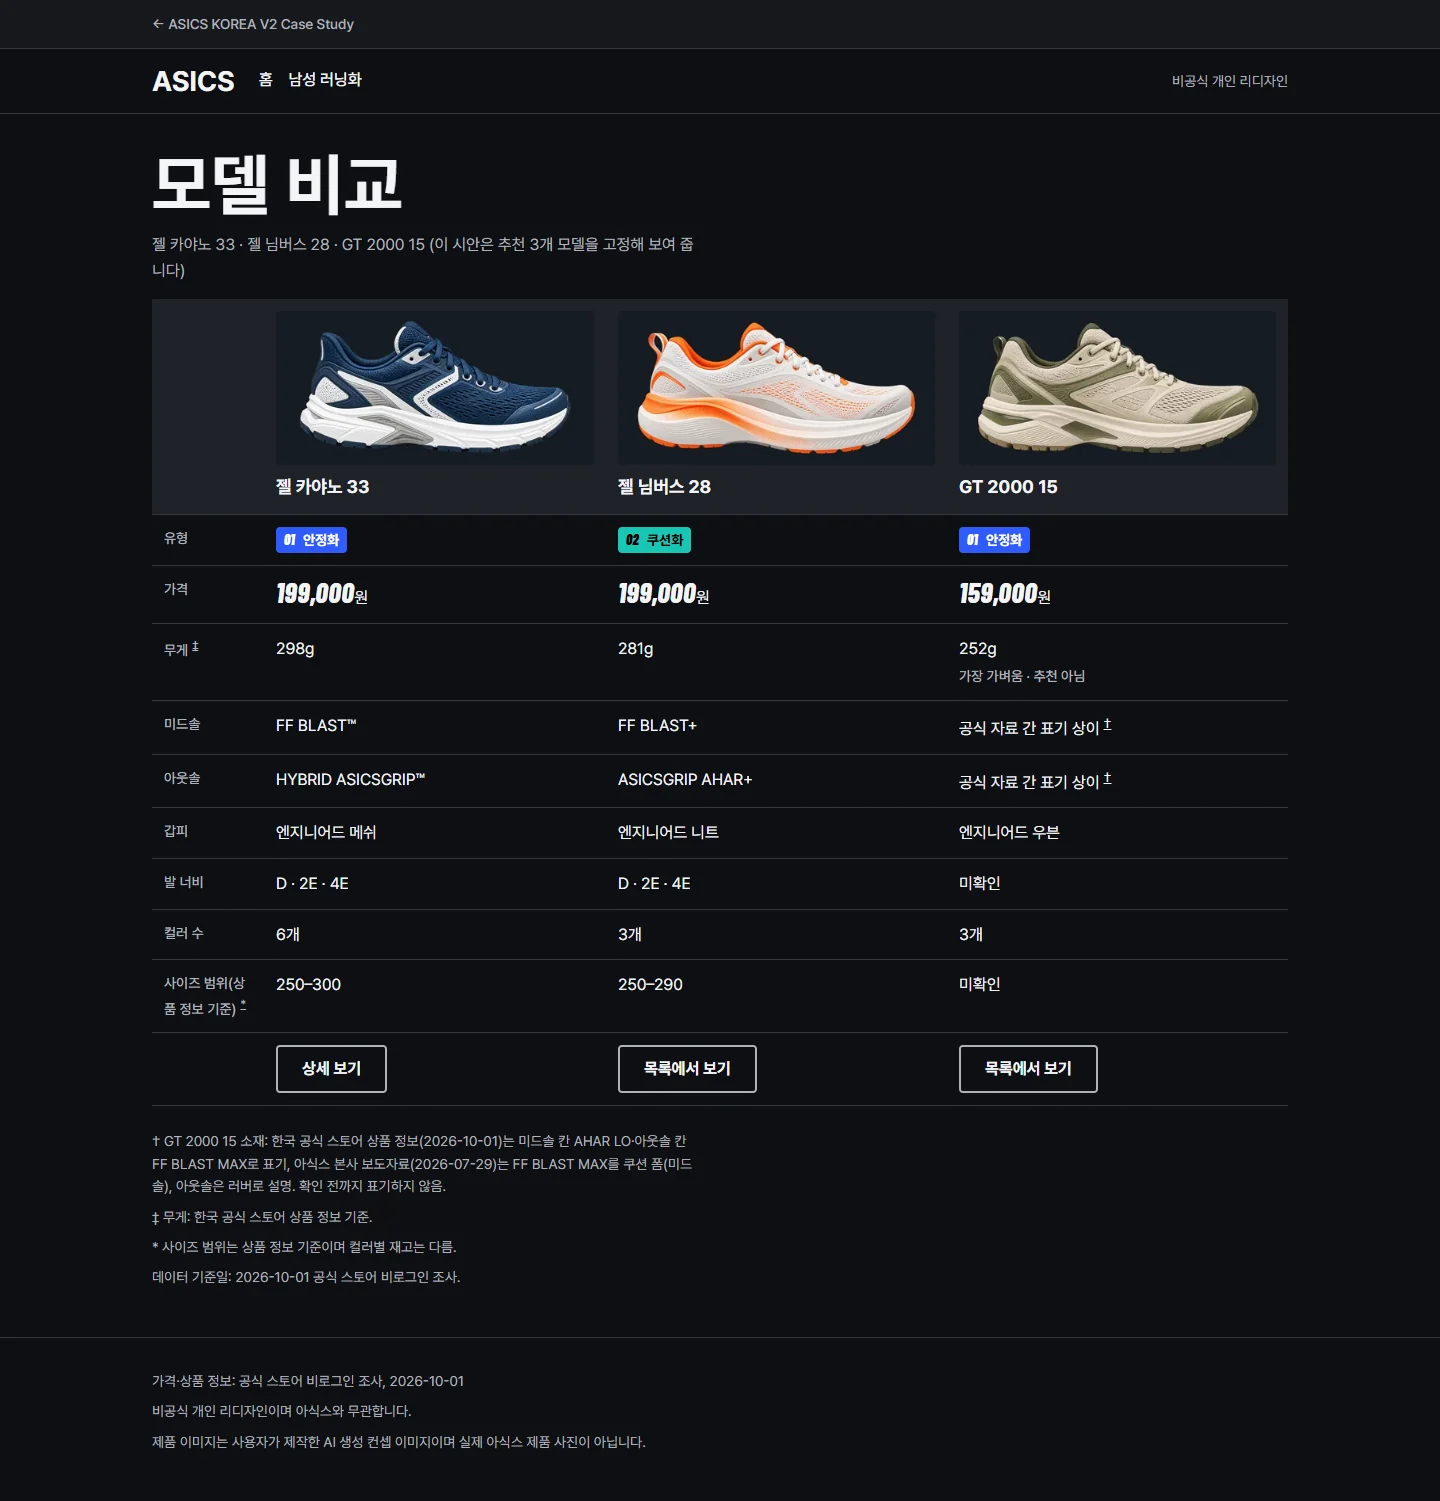
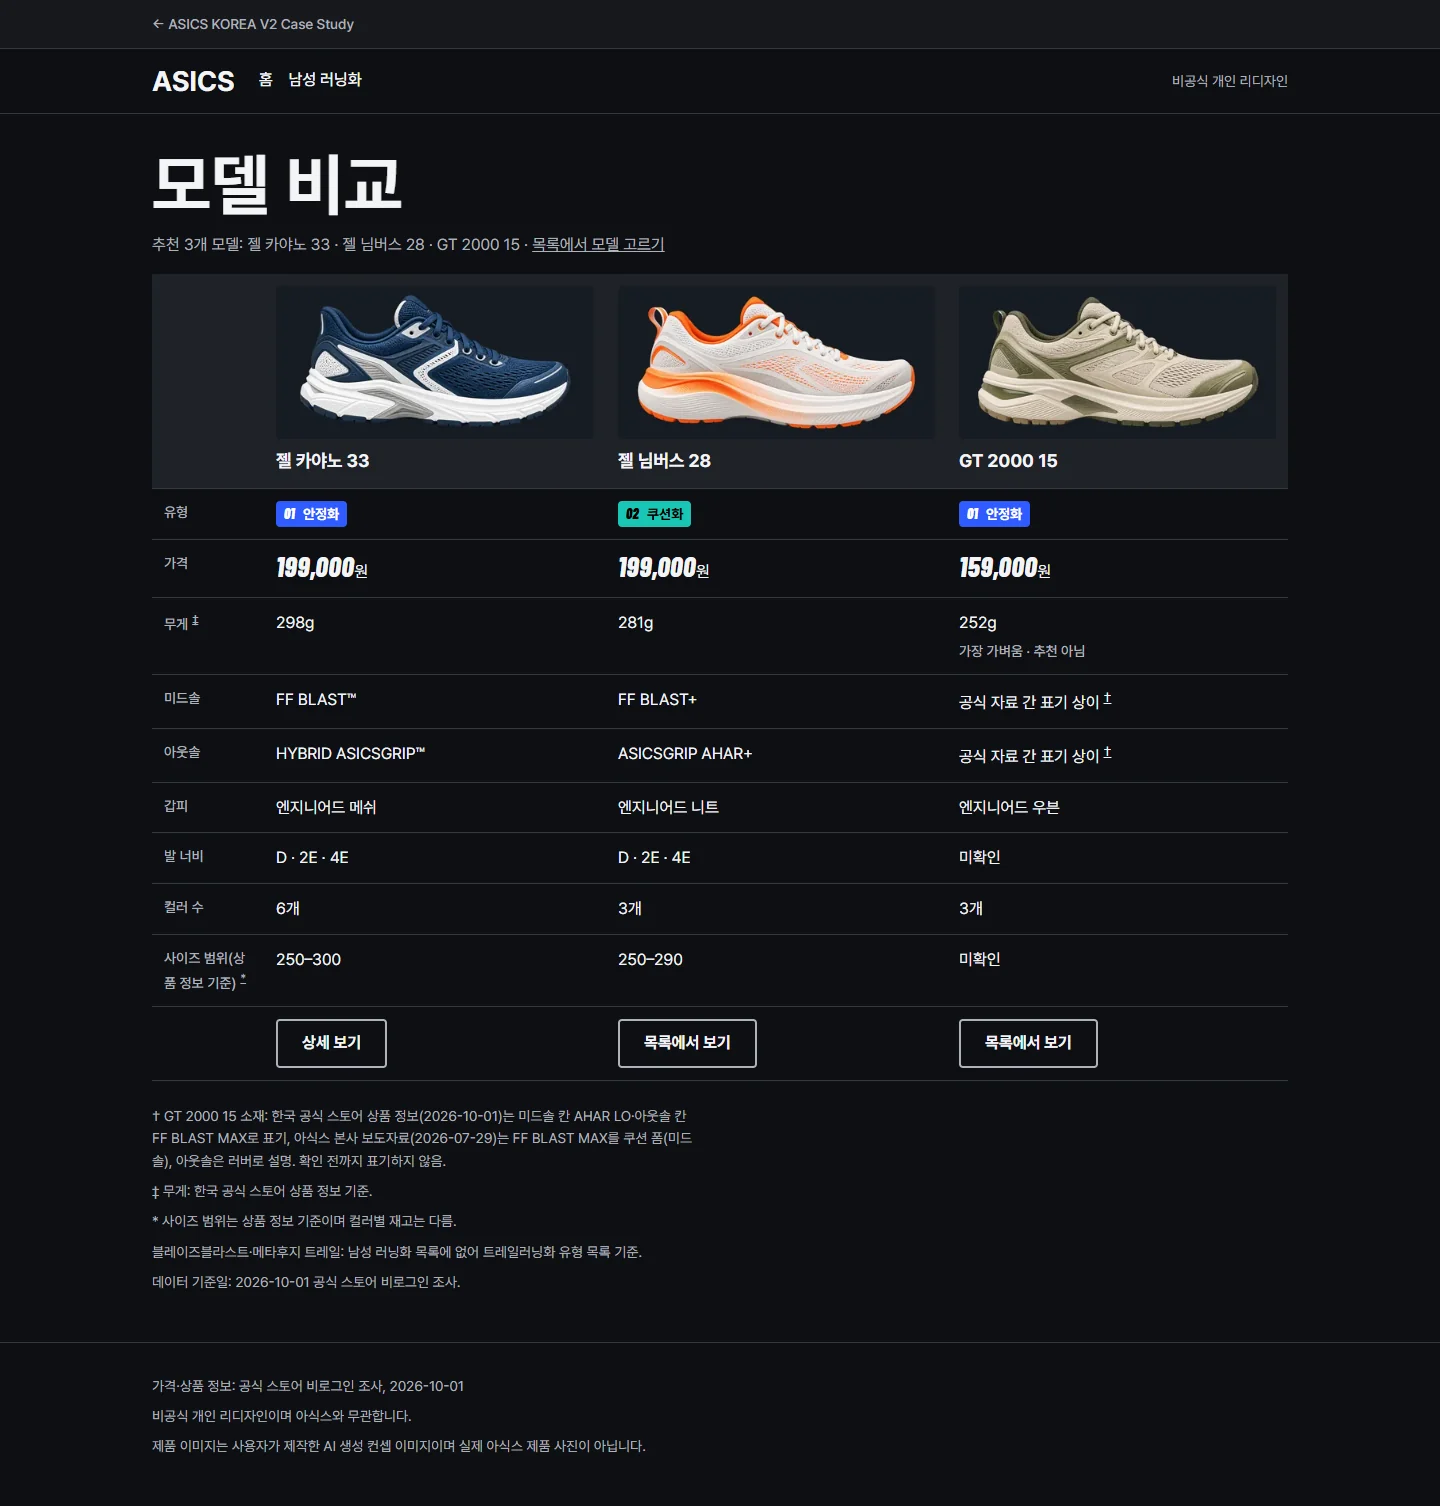
feat(asics-v2): final polish - lead hierarchy, compare keeps pick order, refreshed case captures
- case study first screen: summary under h1 uses lead size/regular weight (scoped to .akv-head)
- demo list remembers check order for tray, ?compare= and ?models=
- case study V2 captures home/list/compare re-shot from the current demo; manifest hashes updated

diff --git a/docs/asics-korea-v2.html b/docs/asics-korea-v2.html
@@ -297,7 +297,7 @@
               </figure>
               <figure class="ak-figure akv-shot akv-shot--v2">
                 <figcaption class="akv-shot__label"><b class="akv-shot__ver">V2</b><span>"공식 자료 간 표기 상이" 각주</span></figcaption>
-                <a class="ak-zoom" id="fig-v2-compare" href="#zoom-v2-compare" title="크게 보기"><img src="assets/asics-v2-case-compare.webp" alt="V2 시연 사이트 비교 화면. 젤 카야노 33 · 님버스 28 · GT 2000 15를 같은 항목으로 비교하고, 가장 가벼운 값에 '추천 아님' 병기, 확인 못 한 칸은 '미확인', 출처가 다른 값은 '공식 자료 간 표기 상이' 각주. 제품 이미지는 AI 생성 컨셉 이미지" width="1440" height="1501" loading="lazy"></a>
+                <a class="ak-zoom" id="fig-v2-compare" href="#zoom-v2-compare" title="크게 보기"><img src="assets/asics-v2-case-compare.webp" alt="V2 시연 사이트 비교 화면. 젤 카야노 33 · 님버스 28 · GT 2000 15를 같은 항목으로 비교하고, 가장 가벼운 값에 '추천 아님' 병기, 확인 못 한 칸은 '미확인', 출처가 다른 값은 '공식 자료 간 표기 상이' 각주. 제품 이미지는 AI 생성 컨셉 이미지" width="1440" height="1506" loading="lazy"></a>
               </figure>
             </div>
             <a class="akv-demo-link" href="asics-korea-v2-demo/compare.html">시연에서 열기 <span aria-hidden="true">→</span></a>
@@ -418,7 +418,7 @@
   </div>
   <div class="ak-lightbox" id="zoom-v2-compare" role="dialog" aria-label="원본 크기 이미지">
     <p class="ak-lightbox__bar"><span>원본 크기 · 옆과 아래로 밀어서 보기</span><a class="ak-lightbox__close" href="#fig-v2-compare">닫기 ✕</a></p>
-    <div class="ak-lightbox__body"><img src="assets/asics-v2-case-compare.webp" alt="" width="1440" height="1501" loading="lazy"></div>
+    <div class="ak-lightbox__body"><img src="assets/asics-v2-case-compare.webp" alt="" width="1440" height="1506" loading="lazy"></div>
   </div>
   <div class="ak-lightbox" id="zoom-v1-mobile" role="dialog" aria-label="원본 크기 이미지">
     <p class="ak-lightbox__bar"><span>원본 크기 · 옆과 아래로 밀어서 보기</span><a class="ak-lightbox__close" href="#fig-v1-mobile">닫기 ✕</a></p>

diff --git a/docs/asics-korea-v2-demo/js/main.js b/docs/asics-korea-v2-demo/js/main.js
@@ -1,5 +1,5 @@
 // main.js - 진보적 향상. JS가 없어도 모든 내용과 유형 필터는 동작한다.
-// 목록: URL ?type=0N 유형 필터 선택, 비교 트레이(최대 3개), 고른 모델 ID를 ?compare=로 주소에 유지.
+// 목록: URL ?type=0N 유형 필터 선택, 비교 트레이(최대 3개), 고른 모델 ID를 고른 순서대로 ?compare=로 주소에 유지.
 // 비교: ?models=ID,ID로 고른 열만 표시(없으면 추천 3열). 상세: 컬러별 품절 사이즈, 선택 요약.
 (function () {
   var MAX_COMPARE = 3;
@@ -74,17 +74,31 @@
       window.history.replaceState(null, "", window.location.pathname + (query ? "?" + query : "") + window.location.hash);
     };
 
+    // 고른 순서. 체크를 푼 모델은 빼고, 새로 체크한 모델은 뒤에 붙인다
+    var order = initial.slice();
+
     var render = function () {
-      chipList.textContent = "";
       var ids = [];
-      for (var i = 0; i < checks.length; i++) {
-        if (checks[i].checked) {
-          var li = document.createElement("li");
-          li.className = "compare-tray__chip";
-          li.textContent = checks[i].getAttribute("data-name");
-          chipList.appendChild(li);
-          ids.push(checks[i].getAttribute("data-compare"));
+      var i;
+      for (i = 0; i < order.length; i++) {
+        if (findCheck(order[i]).checked) {
+          ids.push(order[i]);
         }
+      }
+      for (i = 0; i < checks.length; i++) {
+        var id = checks[i].getAttribute("data-compare");
+        if (checks[i].checked && ids.indexOf(id) === -1) {
+          ids.push(id);
+        }
+      }
+      order = ids;
+
+      chipList.textContent = "";
+      for (i = 0; i < ids.length; i++) {
+        var li = document.createElement("li");
+        li.className = "compare-tray__chip";
+        li.textContent = findCheck(ids[i]).getAttribute("data-name");
+        chipList.appendChild(li);
       }
       tray.hidden = ids.length === 0;
       go.href = "compare.html" + (ids.length ? "?models=" + ids.join(",") : "");

diff --git a/docs/css/pages/asics-korea-v2.css b/docs/css/pages/asics-korea-v2.css
@@ -42,6 +42,13 @@
   gap: calc(var(--space-project-gap-md) * 1px);
 }
 
+/* 첫 화면 요약문: Section 머리의 굵은 문장과 달리 제목(h1) 아래 요약이므로 요약(lead) 크기·보통 굵기로 둔다 */
+.akv-head .akv-statement {
+  font-size: calc(var(--text-ak-lead-size-mobile) * 1px);
+  font-weight: var(--weight-akv-regular);
+  line-height: var(--text-ak-body-leading);
+}
+
 .akv-notice {
   max-width: calc(var(--layout-project-measure-note) * 1em);
   padding: calc(var(--space-project-gap-sm) * 1px) calc(var(--space-project-gap-md) * 1px);
@@ -380,6 +387,7 @@
    ============================================================ */
 @media (min-width: 1024px) {
   .akv-statement { font-size: calc(var(--text-akv-statement-size) * 1px); }
+  .akv-head .akv-statement { font-size: calc(var(--text-ak-lead-size) * 1px); }
   .akv-role__label { font-size: calc(var(--text-ak-item-size) * 1px); }
   .akv-overview { grid-template-columns: minmax(0, 5fr) minmax(0, 7fr); gap: calc(var(--space-ak-gap) * 1px); }
   .akv-columns { grid-template-columns: repeat(2, minmax(0, 1fr)); gap: calc(var(--space-ak-gap) * 1px); }
